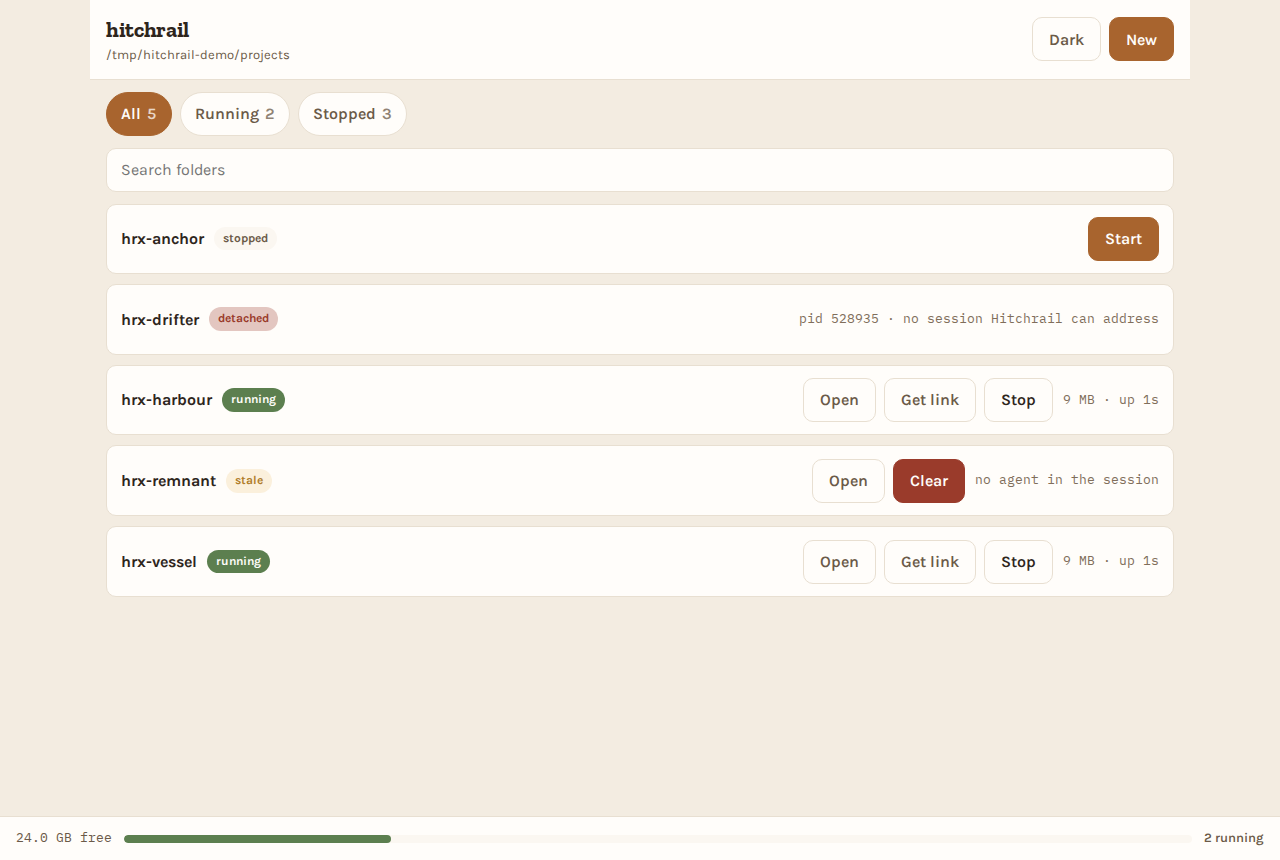
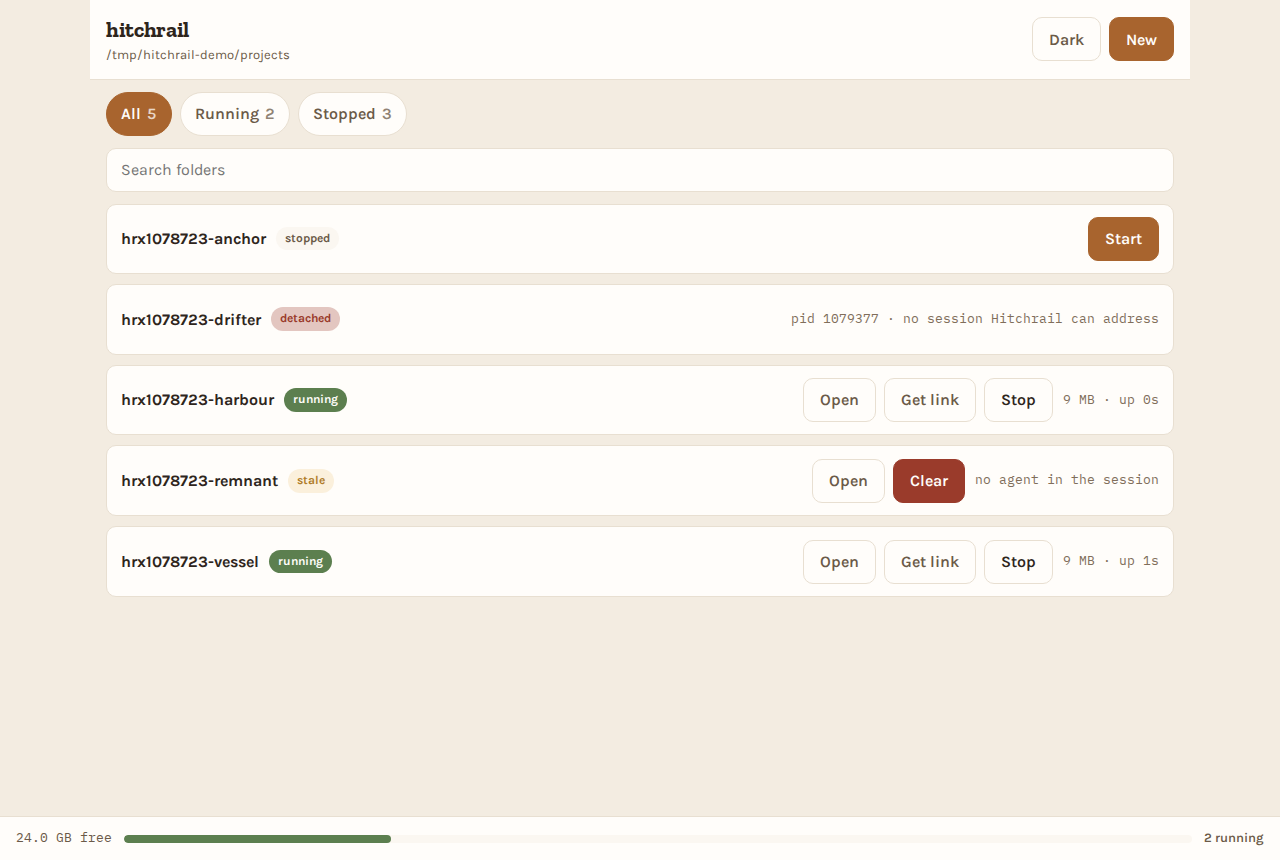
test(e2e): a per run prefix, so two suite runs stop contaminating each other
#177. The tier isolates the two things anybody would think of, a private
tmux server and a temporary root. It cannot isolate the third thing
derivation reads: `ps -eww` is machine wide BY DESIGN, because reading
every process is what makes `detached` findable at all.

So with a constant `hrx-`, another run's shim agent carried the same
`--remote-control main~hrx-vessel` tail as this run's, the two were
indistinguishable, and one run's session was attributed to the other's
project. Observed during #85's review as 13 e2e failures, all
AlreadyRunning, caused entirely by a second run. Plausible, red, and
about something else.

`E2E_PREFIX` now carries the pid. The pid rather than a random token
deliberately: two concurrent runs cannot share one, which is the only
case that matters, and it names the run so a leak can be chased.

**Proved rather than argued.** Two concurrent runs of test_list.py, which
is where the original failures were:

    run A: 22 passed in 32.90s
    run B: 22 passed in 33.75s
    AlreadyRunning failures: 0

Thirteen hardcoded `main~hrx-...` literals across test_list.py and
test_starting.py now go through `server.project` and `e2e_name`, so the
prefix has one home. A literal would no longer match what the harness
creates, and would fail in a way that looks nothing like the cause.

**The guard the conftest docstring already claimed now exists.** It says
"`e2e_names` below is the guard" and there is no `e2e_names`; it was
[…]

diff --git a/tests/e2e/test_list.py b/tests/e2e/test_list.py
@@ -2,6 +2,7 @@
 
 from __future__ import annotations
 
+import shutil
 import subprocess
 import tempfile
 import time
@@ -13,7 +14,7 @@ from playwright.async_api import Page, expect
 from hitchrail import attention
 from support import DEFAULT_LABEL
 
-from .conftest import Harness
+from .conftest import Harness, e2e_name
 
 pytestmark = pytest.mark.e2e
 
@@ -23,10 +24,10 @@ async def test_every_derived_state_renders_as_itself(page: Page, server: Harness
     wrong, so it is drawn with its pid and never silently reconciled."""
     server.seed(running=["vessel"], stopped=["koala"])
     await page.goto(server.base)
-    await expect(page.locator('[data-project="main~hrx-vessel"]')).to_have_attribute(
-        "data-state", "running"
-    )
-    await expect(page.locator('[data-project="main~hrx-koala"]')).to_have_attribute(
+    await expect(
+        page.locator(f'[data-project="{server.project("vessel")}"]')
+    ).to_have_attribute("data-state", "running")
+    await expect(page.locator(f'[data-project="{server.project("koala")}"]')).to_have_attribute(
         "data-state", "stopped"
     )
 
@@ -54,7 +55,7 @@ async def test_a_detached_row_names_its_pid_and_offers_nothing_that_cannot_act(
     server.seed(detached=["forge-kit"])
     assert server.engine is not None
     await page.goto(server.base)
-    row = page.locator('[data-project="main~hrx-forge-kit"]')
+    row = page.locator(f'[data-project="{server.project("forge-kit")}"]')
     await expect(row).to_have_attribute("data-state", "detached")
 
     # The pid and the reason, which is the whole of what the design promises.
@@ -91,10 +92,10 @@ async def test_an_agent_in_another_tools_tmux_session_says_where_it_is(
     server.seed(foreign=["forge-kit"])
     assert server.engine is not None
     await page.goto(server.base)
-    row = page.locator('[data-project="main~hrx-forge-kit"]')
+    row = page.locator(f'[data-project="{server.project("forge-kit")}"]')
     await expect(row).to_have_attribute("data-state", "detached")
 
-    await expect(row).to_contain_text("in tmux session e2eother-hrx-forge-kit")
+    await expect(row).to_contain_text(f"in tmux session e2eother-{e2e_name('forge-kit')}")
     await expect(row).not_to_contain_text("no session Hitchrail can address")
 
     # Still nothing to tap. Knowing where the agent is does not give Hitchrail
@@ -108,8 +109,10 @@ async def test_a_running_row_is_taller_than_a_stopped_one(page: Page, server: Ha
     server.seed(running=["vessel"], stopped=["long-hyphenated-name"])
     await page.set_viewport_size({"width": 390, "height": 844})
     await page.goto(server.base)
-    tall = await page.locator('[data-project="main~hrx-vessel"]').bounding_box()
-    short = await page.locator('[data-project="main~hrx-long-hyphenated-name"]').bounding_box()
+    tall = await page.locator(f'[data-project="{server.project("vessel")}"]').bounding_box()
+    short = await page.locator(
+        f'[data-project="{server.project("long-hyphenated-name")}"]'
+    ).bounding_box()
     assert tall is not None and short is not None, "a row was not laid out"
     assert tall["height"] > short["height"], (
         f"running {tall['height']} is not taller than stopped {short['height']}"
@@ -123,7 +126,7 @@ async def test_the_controller_row_is_badged_and_has_no_stop(
     is specific about the label: `controller`, not a lock glyph."""
     server.seed(running=["hitchrail"], self_project="hitchrail")
     await page.goto(server.base)
-    row = page.locator('[data-project="main~hrx-hitchrail"]')
+    row = page.locator(f'[data-project="{server.project("hitchrail")}"]')
     await expect(row).to_have_attribute("data-protected", "true")
     await expect(row.locator("[data-badge]")).to_have_attribute("data-badge", "controller")
     assert await row.get_by_role("button", name="Stop").count() == 0
@@ -172,8 +175,10 @@ async def test_stopped_means_not_running_rather_than_the_stopped_state(
     server.seed(running=["vessel"], detached=["forge-kit"])
     await page.goto(server.base)
     await page.get_by_role("tab", name="Stopped").click()
-    await expect(page.locator('[data-project="main~hrx-forge-kit"]')).to_be_visible()
-    await expect(page.locator('[data-project="main~hrx-vessel"]')).to_have_count(0)
+    await expect(
+        page.locator(f'[data-project="{server.project("forge-kit")}"]')
+    ).to_be_visible()
+    await expect(page.locator(f'[data-project="{server.project("vessel")}"]')).to_have_count(0)
 
 
 async def test_a_folder_that_cannot_be_a_project_is_accounted_for(
@@ -203,7 +208,7 @@ async def test_a_project_name_is_rendered_as_text_and_never_as_markup(
     # Wait for the initial fetch to have rendered before injecting. `boot`
     # kicks off `refresh` without awaiting it, so a state written before that
     # resolves is overwritten by the real listing and the test flakes.
-    await expect(page.locator('[data-project="main~hrx-vessel"]')).to_be_visible()
+    await expect(page.locator(f'[data-project="{server.project("vessel")}"]')).to_be_visible()
     hostile = "<img src=x onerror=alert(1)>"
     await page.evaluate(
         """(name) => {
@@ -405,7 +410,7 @@ async def test_a_trusted_folder_renders_as_an_ordinary_running_row(
 
 
 async def test_the_leak_detectors_can_actually_see_a_stray_server(
-    server: Harness, tmp_path: Path
+    server: Harness, tmp_path: Path, request: pytest.FixtureRequest
 ) -> None:
     """#99 added two checks to teardown, and a check that cannot fire is worse
     than none: it reports safety it is not providing.
@@ -421,6 +426,14 @@ async def test_the_leak_detectors_can_actually_see_a_stray_server(
     # which surfaces as an opaque tmux error rather than as a length problem,
     # and `check=True` below would turn that into a puzzling failure.
     sock_dir = tempfile.mkdtemp(prefix="hrleak")
+    # **Removed at teardown, not here.** The asserts after the `finally` below
+    # still read `sock`, so deleting the directory inside that block would
+    # change what they check from "the server is gone" to "the path is gone".
+    # A finalizer runs after the body either way, so a failing run cleans up
+    # too: six of these accumulated in /tmp in one afternoon before this line,
+    # each holding a dead socket, because the test killed its SESSION and never
+    # removed its DIRECTORY.
+    request.addfinalizer(lambda: shutil.rmtree(sock_dir, ignore_errors=True))
     sock = str(Path(sock_dir) / "s")
     subprocess.run(
         [

diff --git a/tests/test_docs_are_true.py b/tests/test_docs_are_true.py
@@ -1119,3 +1119,40 @@ def test_no_free_text_field_reaches_the_answer_path() -> None:
         "answerPad builds a text input, which turns one keypress from a fixed "
         "set into arbitrary input to a shell. See #204."
     )
+
+
+def test_no_e2e_test_hardcodes_the_run_prefix() -> None:
+    """#177. The prefix is per RUN now, so a literal in a test body is a bug.
+
+    Two runs of this suite on one machine used to contaminate each other. The
+    tier isolates a private tmux server and a temporary root, and cannot isolate
+    the third thing derivation reads: `ps -eww` is machine wide by design. With
+    a constant prefix, one run's shim agent carried the same argv tail as
+    another's, and a session was attributed to the wrong run. Observed as 13
+    plausible, red, unrelated e2e failures.
+
+    `E2E_PREFIX` now carries the pid, so a hardcoded `hrx-` no longer matches
+    what the harness creates and the test fails for a reason that looks nothing
+    like the cause. This catches it at the literal instead.
+
+    **The conftest docstring claimed this guard already existed**, naming an
+    `e2e_names` that was never written. That is the same defect this file exists
+    to catch, in the file describing the tier, so it is worth having the guard
+    actually be here.
+    """
+    e2e = ROOT / "tests" / "e2e"
+    offenders = {
+        path.name: [
+            i
+            for i, line in enumerate(path.read_text(encoding="utf-8").splitlines(), 1)
+            if "hrx-" in line
+        ]
+        for path in sorted(e2e.glob("test_*.py"))
+    }
+    offenders = {name: lines for name, lines in offenders.items() if lines}
+    assert not offenders, (
+        f"these e2e tests hardcode the run prefix: {offenders}. It carries the "
+        f"pid now, so a literal cannot match what the harness creates. Use "
+        f"`server.project(name)` for an identifier or `e2e_name(name)` for a "
+        f"folder, which is the one place the prefix lives. See #177."
+    )

diff --git a/tests/e2e/conftest.py b/tests/e2e/conftest.py
@@ -228,7 +228,26 @@ sys.exit(3)
 
 # Prefixed so a seeded project can never be a real one. `hr` is short because
 # the name reaches a tmux session name and a filesystem path.
-E2E_PREFIX = "hrx-"
+#
+# **Unique per RUN, not a constant (#177).** This tier isolates the two things
+# anybody would think of, a private tmux server and a temporary root, and it
+# cannot isolate the third thing derivation reads: `ps -eww` is machine wide, by
+# design, because reading every process is what makes `detached` findable at
+# all. So with a constant prefix, another run's shim agent carries the same
+# `--remote-control main~hrx-vessel` tail as this one's, the two are
+# indistinguishable, and one run's session is attributed to the other's project.
+#
+# Observed during review of #85: a clean worktree produced 13 e2e failures, all
+# `AlreadyRunning`, caused entirely by a second run of this suite. The failure
+# is the worst kind, plausible and red and about something else. Two agents
+# working this repository at once is now normal, and this is also what closed
+# off running the tiers concurrently in CI.
+#
+# The pid rather than a random token, deliberately: two concurrent runs cannot
+# share one, which is the only case that matters, and it names the run in a way
+# a person can chase. `os.getpid()` is read once at import, so every name in one
+# run agrees even though each pytest process gets its own.
+E2E_PREFIX = f"hrx{os.getpid()}-"
 
 
 def e2e_name(name: str) -> str:

diff --git a/tests/e2e/test_starting.py b/tests/e2e/test_starting.py
@@ -7,7 +7,7 @@ from playwright.async_api import Page, expect
 
 from support import DEFAULT_LABEL
 
-from .conftest import Harness
+from .conftest import Harness, e2e_name
 
 pytestmark = pytest.mark.e2e
 
@@ -71,7 +71,7 @@ async def test_the_hard_floor_never_offers_to_stop_the_controller(
 
     dialog = page.locator("[data-dialog]")
     await expect(dialog).to_contain_text("Not enough memory")
-    assert await dialog.get_by_role("button", name="Stop hrx-hitchrail").count() == 0
+    assert await dialog.get_by_role("button", name=f"Stop {e2e_name('hitchrail')}").count() == 0
 
 
 async def test_a_start_that_dies_says_so_and_offers_the_output(
@@ -123,7 +123,7 @@ async def test_the_new_folder_sheet_creates(page: Page, server: Harness) -> None
     await page.get_by_role("button", name="New").click()
     await page.get_by_label("Folder name").fill("new-thing")
     await page.get_by_role("button", name="Create").click()
-    # `server.project` would add the `hrx-` collision prefix, and this folder
+    # `server.project` would add the run's collision prefix, and this folder
     # was typed into the interface rather than seeded, so it is literally
     # `new-thing`. What it gains is the ROOT LABEL, which the page supplies on
     # the person's behalf because they typed a folder name, not an identifier.
